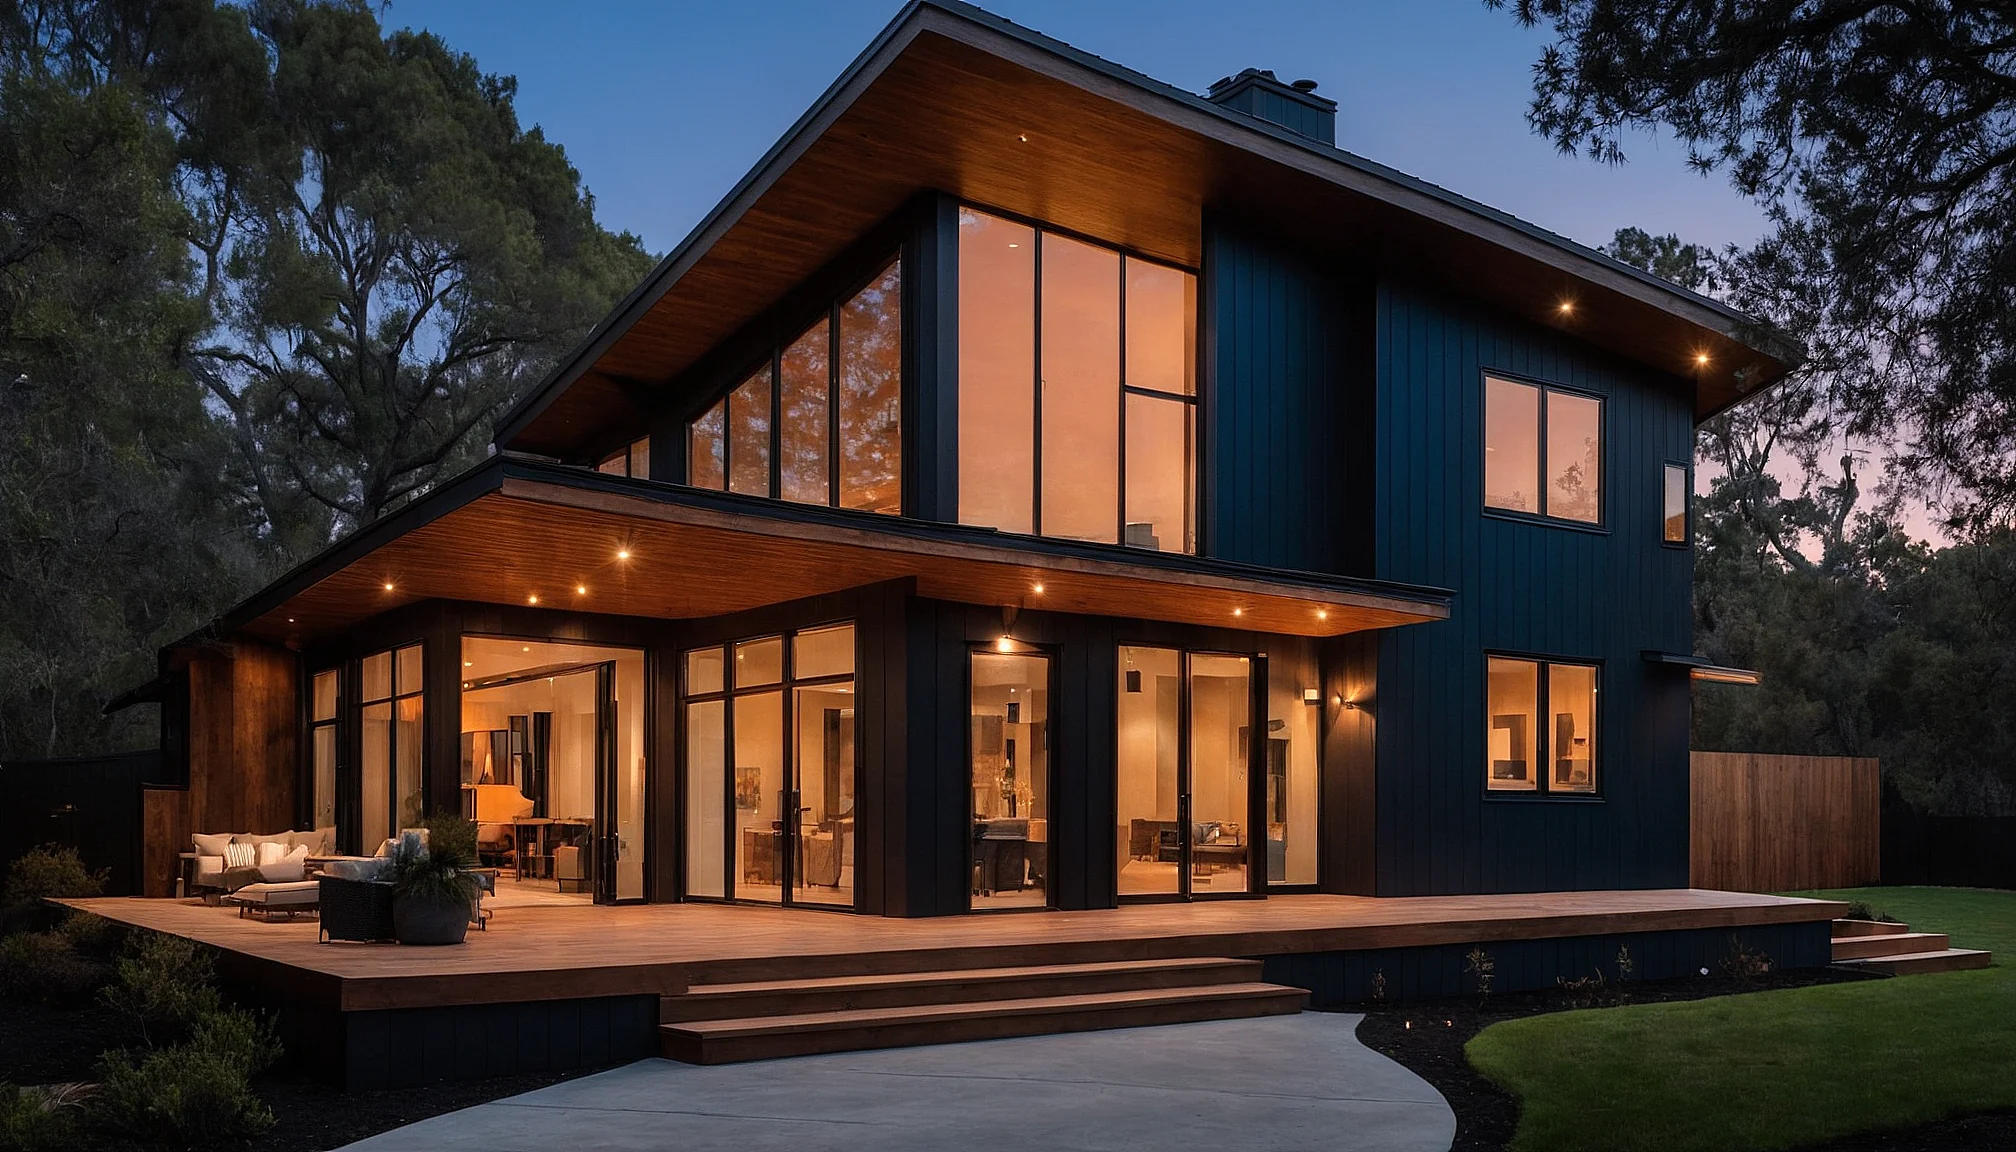
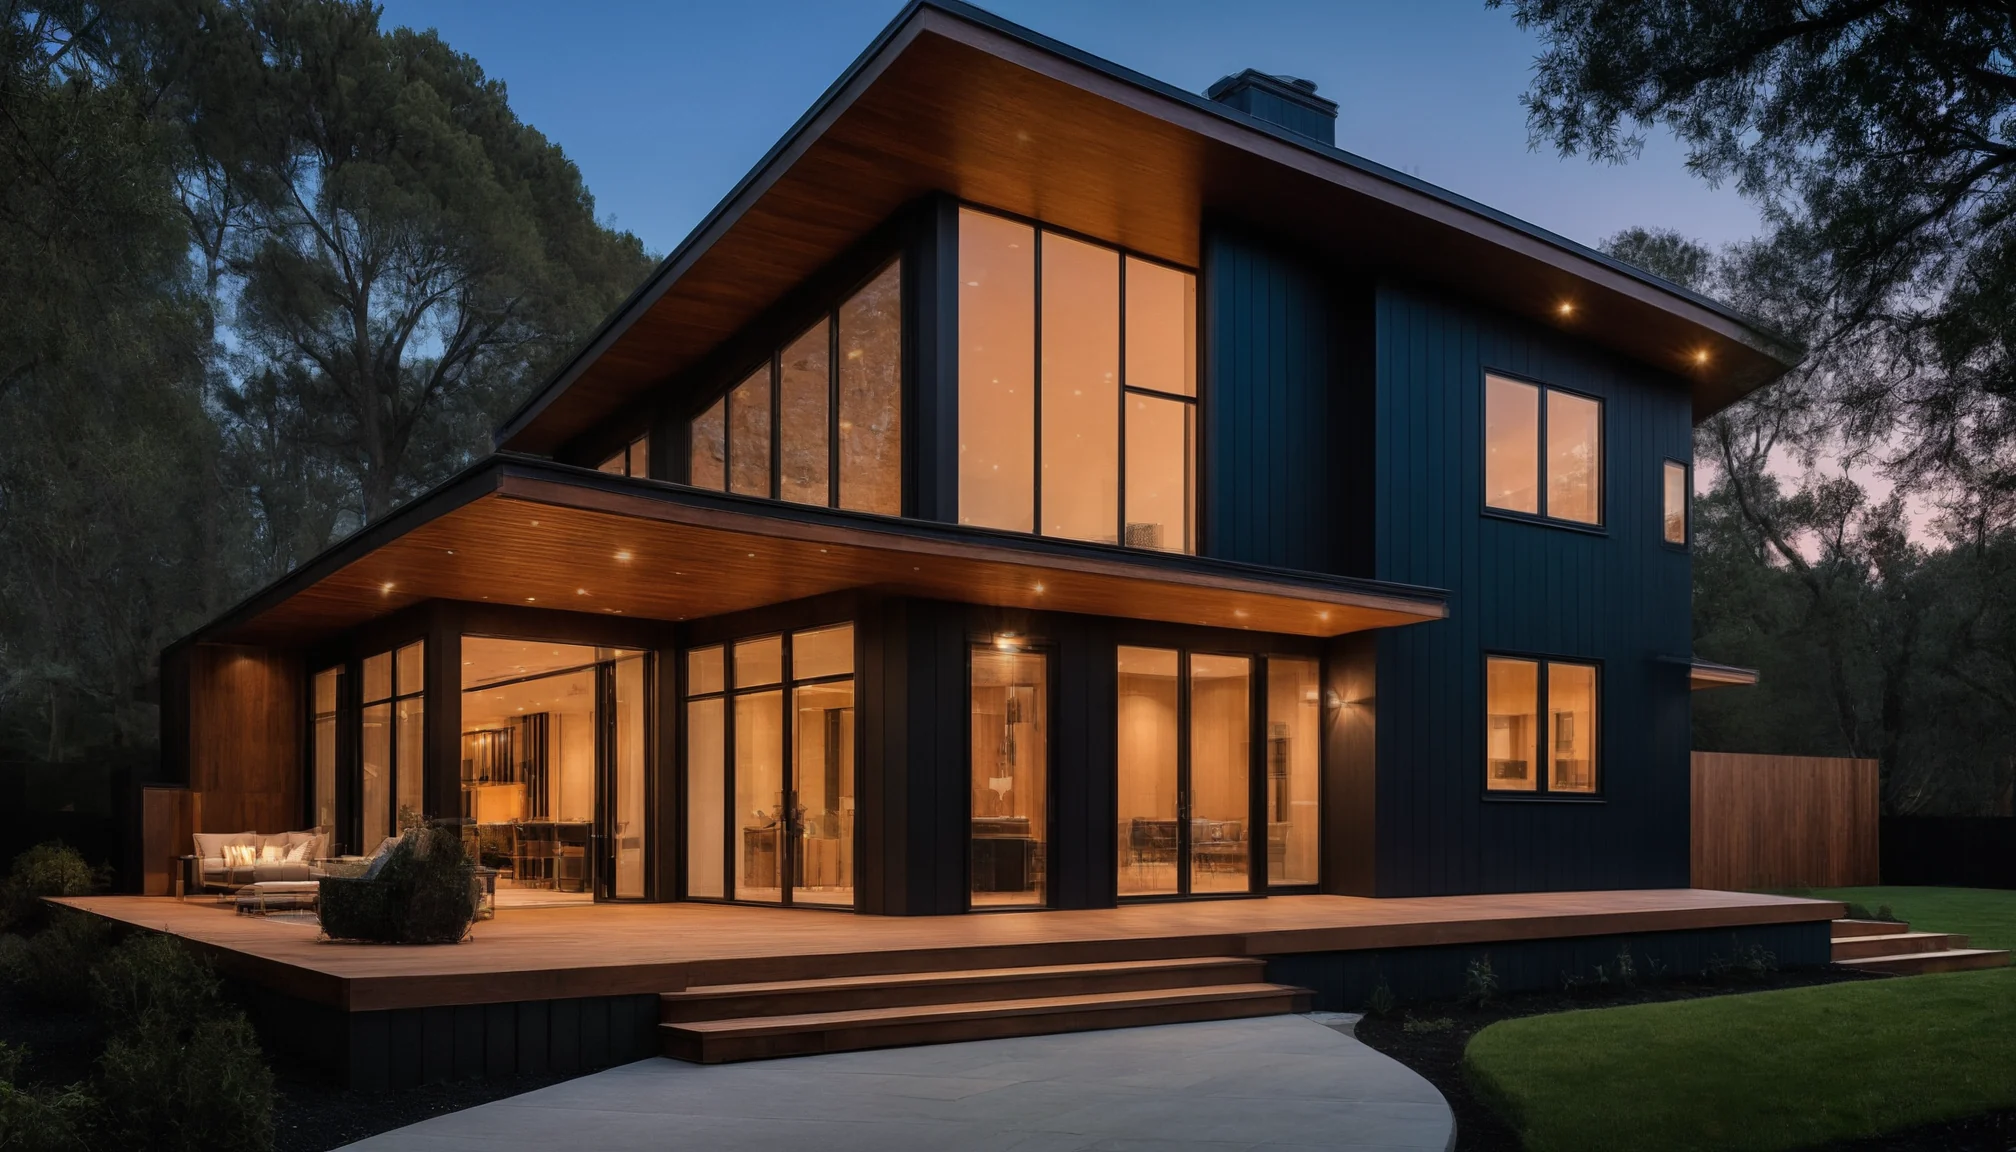
feat: tiled re-synthesis for both images, and the last dead URL is gone
Replaces the upscale approach entirely. The previous two attempts rendered
roughly 1M pixels and enlarged to 2.3M; a refiner at 0.40 denoise preserves
what is already there and cannot synthesise detail that was never drawn, so
hard edges (window mullions) stayed crisp while foliage and interiors stayed
mush.

Now each image is cut into six overlapping 1024x1024 tiles -- SDXL's native
resolution -- re-synthesised individually at 0.45 denoise with a
texture-focused prompt, then blended back with feathered masks. Every tile
is genuinely generated at full resolution rather than stretched.

A note on the metric used earlier: variance-of-Laplacian rewards hard edges,
so the unsharp mask applied in the previous attempt inflated it. Dropping
that mask moved the score 1217 -> 603 while the image visibly improved. The
number was measuring sharpening halos, not detail, and should not be trusted
on its own. Visual inspection at 1:1 is the check that matters.

- hero-modern-home.webp re-rendered. 367 KB -> 258 KB: real detail encodes
  more cheaply than sharpening halos.
- commercial-building.webp added (192 KB) and wired into CommercialPCA,
  replacing the last dead CloudFront URL.
- alt="" there too, consistent with the other decorative backgrounds.

No reference to d2xsxph8kpxj0f.cloudfront.net remains anywhere in the
source. Every image the site loads is now served from its own origin.

Verified: tsc clean, 28 unit tests pass, both assets ship in the build.

diff --git a/client/src/pages/CommercialPCA.tsx b/client/src/pages/CommercialPCA.tsx
@@ -72,8 +72,8 @@ export default function CommercialPCA() {
       <section className="relative min-h-[60vh] flex items-center border-b border-border overflow-hidden">
         <div className="absolute inset-0 z-0">
           <img
-            src="https://d2xsxph8kpxj0f.cloudfront.net/310519663462787524/KXLMpC34TJZ2Xp2FKiV446/commercial-building-GYFDFQy7q2timvbXZeXETy.webp"
-            alt="Sacramento Commercial Office Building"
+            src="/assets/commercial-building.webp"
+            alt=""
             onError={(e) => { e.currentTarget.style.display = "none"; }}
             className="w-full h-full object-cover opacity-30 filter brightness-75 contrast-110"
           />
